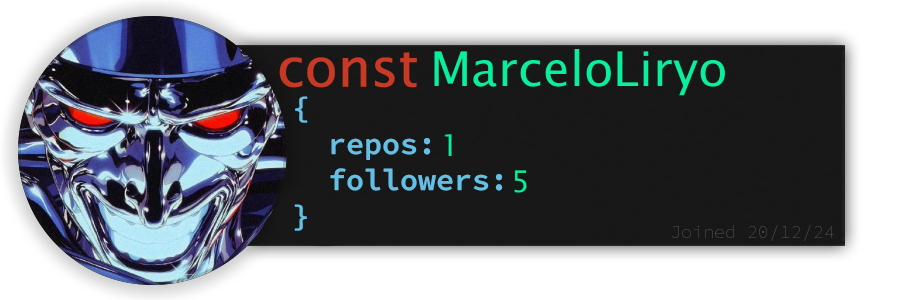
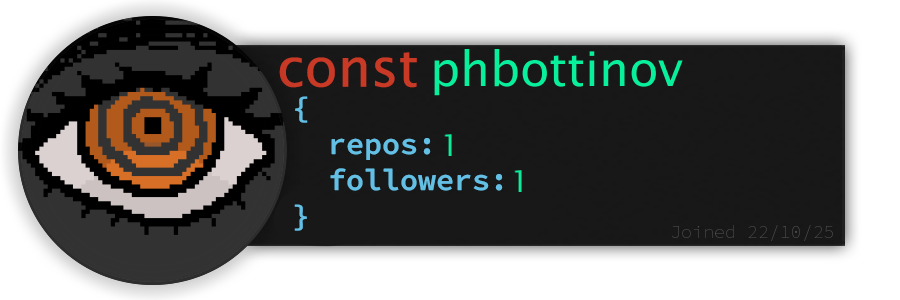
Generated readme

Changed region(s): [[0.0, 0.06, 0.3422, 0.96], [0.4667, 0.15, 0.8089, 0.33], [0.56, 0.57, 0.5911, 0.66]]

diff --git a/README.md b/README.md
@@ -9,27 +9,27 @@
 * Born in Salvador, 19 years
 * Software Engineer
 * Currently studying Typescript
-* 1 Year, 1 Month and 15 Days since I started programming
+* 1 Year, 1 Month and 16 Days since I started programming
 
 ## **Skills wall:**
 
-<p align="left"><img src="https://img.shields.io/badge/typescript-F73C7B?logo=typescript&style=for-the-badge&logoColor=F2F2F2"/>
-<img src="https://img.shields.io/badge/vite-4D4577?logo=vite&style=for-the-badge&logoColor=F2F2F2"/>
-<img src="https://img.shields.io/badge/java-393359?logo=java&style=for-the-badge&logoColor=F2F2F2"/>
-<img src="https://img.shields.io/badge/figma-F73C7B?logo=figma&style=for-the-badge&logoColor=F2F2F2"/>
-<img src="https://img.shields.io/badge/npm-393359?logo=npm&style=for-the-badge&logoColor=F2F2F2"/>
-<img src="https://img.shields.io/badge/html5-393359?logo=html5&style=for-the-badge&logoColor=F2F2F2"/>
+<p align="left"><img src="https://img.shields.io/badge/git-F73C7B?logo=git&style=for-the-badge&logoColor=F2F2F2"/>
+<img src="https://img.shields.io/badge/npm-4D4577?logo=npm&style=for-the-badge&logoColor=F2F2F2"/>
 <img src="https://img.shields.io/badge/bootstrap-F73C7B?logo=bootstrap&style=for-the-badge&logoColor=F2F2F2"/>
-<img src="https://img.shields.io/badge/github-393359?logo=github&style=for-the-badge&logoColor=F2F2F2"/>
-<img src="https://img.shields.io/badge/photoshop-393359?logo=adobe-photoshop&style=for-the-badge&logoColor=F2F2F2"/>
-<img src="https://img.shields.io/badge/sass-4D4577?logo=sass&style=for-the-badge&logoColor=F2F2F2"/>
-<img src="https://img.shields.io/badge/css3-393359?logo=css3&style=for-the-badge&logoColor=F2F2F2"/>
-<img src="https://img.shields.io/badge/javascript-F73C7B?logo=javascript&style=for-the-badge&logoColor=F2F2F2"/>
-<img src="https://img.shields.io/badge/vercel-393359?logo=vercel&style=for-the-badge&logoColor=F2F2F2"/>
-<img src="https://img.shields.io/badge/react-F73C7B?logo=react&style=for-the-badge&logoColor=F2F2F2"/>
-<img src="https://img.shields.io/badge/github%20pages-393359?logo=github&style=for-the-badge&logoColor=F2F2F2"/>
 <img src="https://img.shields.io/badge/postgresql-F73C7B?logo=postgresql&style=for-the-badge&logoColor=F2F2F2"/>
-<img src="https://img.shields.io/badge/git-F73C7B?logo=git&style=for-the-badge&logoColor=F2F2F2"/></p>
+<img src="https://img.shields.io/badge/figma-F73C7B?logo=figma&style=for-the-badge&logoColor=F2F2F2"/>
+<img src="https://img.shields.io/badge/vercel-4D4577?logo=vercel&style=for-the-badge&logoColor=F2F2F2"/>
+<img src="https://img.shields.io/badge/javascript-F73C7B?logo=javascript&style=for-the-badge&logoColor=F2F2F2"/>
+<img src="https://img.shields.io/badge/photoshop-393359?logo=adobe-photoshop&style=for-the-badge&logoColor=F2F2F2"/>
+<img src="https://img.shields.io/badge/css3-393359?logo=css3&style=for-the-badge&logoColor=F2F2F2"/>
+<img src="https://img.shields.io/badge/vite-393359?logo=vite&style=for-the-badge&logoColor=F2F2F2"/>
+<img src="https://img.shields.io/badge/java-4D4577?logo=java&style=for-the-badge&logoColor=F2F2F2"/>
+<img src="https://img.shields.io/badge/html5-393359?logo=html5&style=for-the-badge&logoColor=F2F2F2"/>
+<img src="https://img.shields.io/badge/github%20pages-4D4577?logo=github&style=for-the-badge&logoColor=F2F2F2"/>
+<img src="https://img.shields.io/badge/github-393359?logo=github&style=for-the-badge&logoColor=F2F2F2"/>
+<img src="https://img.shields.io/badge/react-F73C7B?logo=react&style=for-the-badge&logoColor=F2F2F2"/>
+<img src="https://img.shields.io/badge/typescript-F73C7B?logo=typescript&style=for-the-badge&logoColor=F2F2F2"/>
+<img src="https://img.shields.io/badge/sass-4D4577?logo=sass&style=for-the-badge&logoColor=F2F2F2"/></p>
 
 ## **Recent projects:**
 
@@ -65,7 +65,7 @@
 
 *Showcases a random GitHub follower here everyday*
 
-<a href="https://github.com/MarceloLiryo" alt="Marcelo Livros"><img style="height:150px;" src=./src/resources/images/randomFollower.png alt="Follower of the day"/></a>
+<a href="https://github.com/phbottinov" alt="pH"><img style="height:150px;" src=./src/resources/images/randomFollower.png alt="Follower of the day"/></a>
 
 <hr>
 
